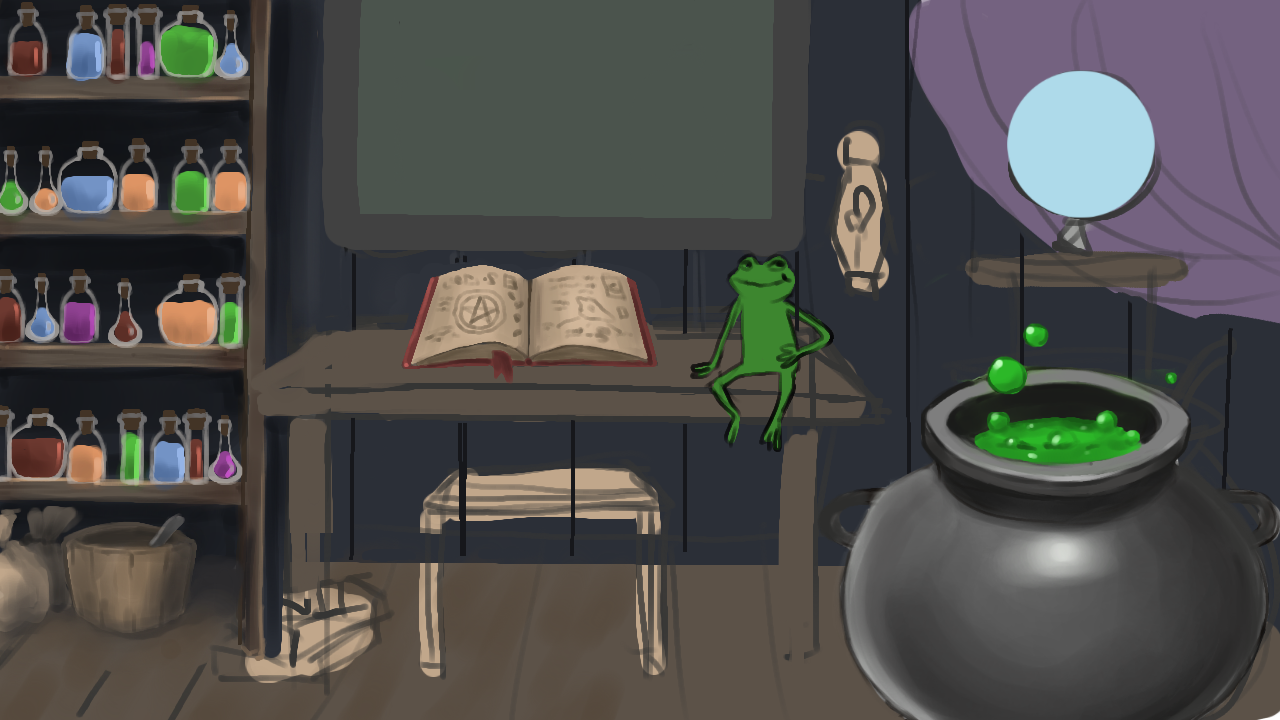
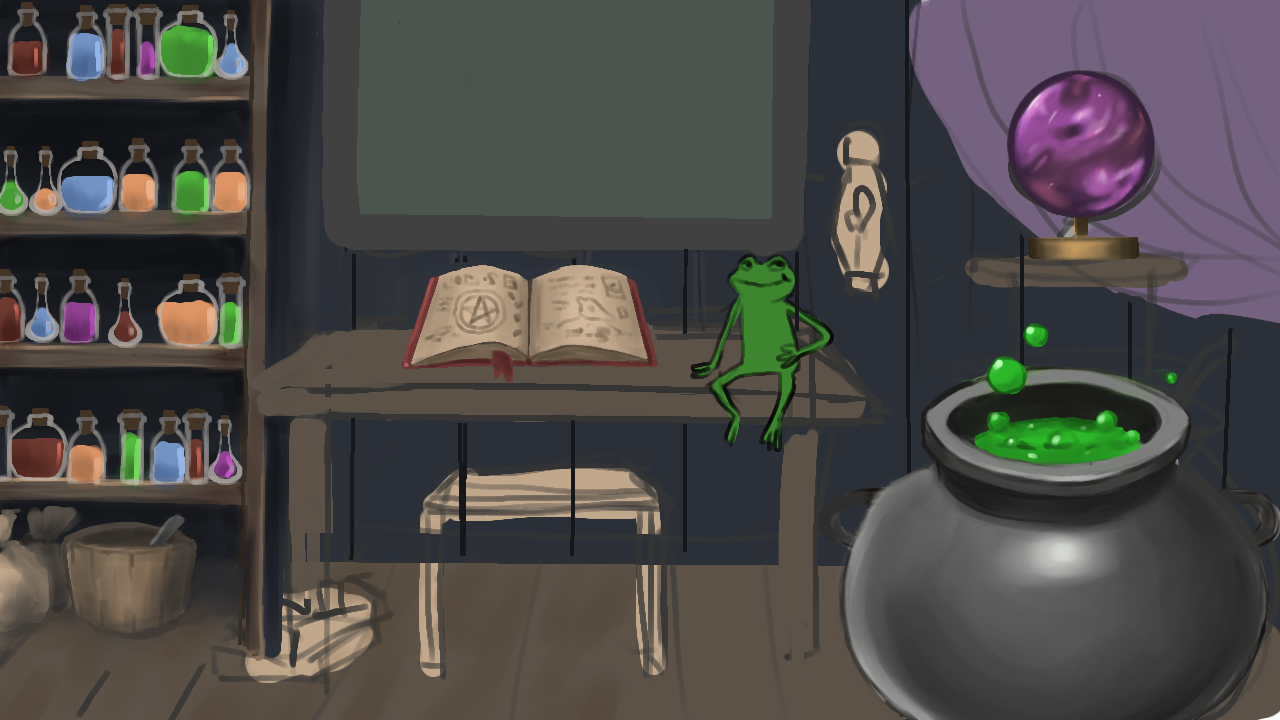
added crystal ball

Changed region(s): [[0.7812, 0.0917, 0.9062, 0.3667]]

diff --git a/src/scenes/Cabin.ts b/src/scenes/Cabin.ts
@@ -15,10 +15,15 @@ export class CabinScene extends Phaser.Scene {
         this.load.image('cabin', 'assets/image/drawings/cabin-draft.png');
         this.load.image('cauldron', 'assets/image/drawings/cauldron.png');
         this.load.image('book', 'assets/image/drawings/book.png');
+        this.load.image('crystalBall', 'assets/image/drawings/crystal-ball.png');
     }
 
     create() {
         const cabinImage = this.add.image(400, 300, 'cabin').setScale(0.7, .84);
+
+        const crystalBallImage = this.add.image(700, 150, 'crystalBall').setScale(0.7,0.7).setInteractive();
+        // crystalBallImage.on("pointerdown", () => this.scene.start("Gossip"));
+
         const cauldronImage = this.add.image(700, 425, 'cauldron').setScale(.65, .65).setInteractive();
         cauldronImage.on("pointerdown", () => this.scene.start("Craft"));
 
